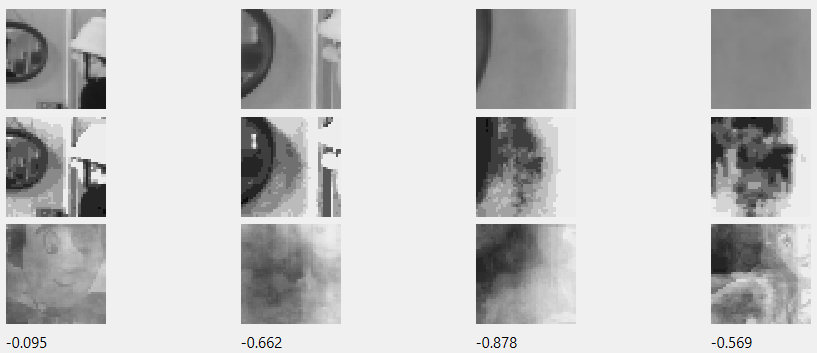
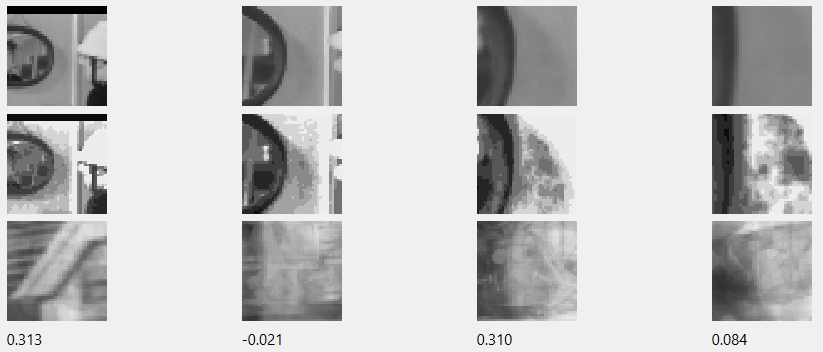
model re-run

diff --git a/README.md b/README.md
@@ -487,9 +487,9 @@ If we pause at 20 seconds of the first film as before, we see that the four repr
 
 ![actor001_006](images/actor001_006.png)
 
-The first three representations are close to their corresponding records. These three have high *likelihoods*. 
+The first three representations are close to their corresponding records. All have high *likelihoods*. 
 
-We can navigate around using the mouse or the arrow keys. The space bar will re-center the focus. We can easily navigate to areas of low *likelihoods*, for example if we hit the right arrow several times to (0.531,0.5) we have -
+We can navigate around using the mouse or the arrow keys. The space bar will re-center the focus. We can easily navigate to areas of low *likelihoods*, for example if we hit the up arrow several times to (0.5,0.425) we have -
 
 ![actor001_007](images/actor001_007.png)
 
@@ -501,17 +501,17 @@ This reminds us of the vastness of the *volume* of the *substrate* compared to t
 
 This table summarises the results from the `actor001` *models* -
 
-TODO models 2 and 8
+TODO model 8
 
 model|scales|frame position|events|fuds|fuds/sz/thrshld|median diagonal|max diagonal|lagging fuds
 ---|---|---|---|---|---|---|---|---
-model001|1.0, 0.5, 0.25, 0.125|centred|720,000|2781|0.7725|31.7208|41.5523|7
+model001|1.0, 0.5, 0.25, 0.125|centred|720,000|2817|0.7825|31.8063|41.4185|66
 model005|1.0|1 centred|180,000|684|0.761591|33.4245|41.2544|0
 model006|0.5|1 centred|180,000|697|0.775099|31.6855|41.1768|0
 model007|0.25|1 centred|180,000|698|0.776233|31.458|40.8568|0
-model003|0.5|1 centred, 4 offset|720,000|2726|0.757222|31.4333|42.0312|1114
-model004|0.5|1 centred, 4 offset, randomised|720,000|2899|0.805278|25.5097|40.5724|485
-model002|0.25|1 centred, 4 offset|720,000|2799|0.7775|31.2526|41.5411|489
+model003|0.5|1 centred, 4 offset|720,000|2762|0.767222|31.5374|41.7331|602
+model004|0.5|1 centred, 4 offset, randomised|720,000|2951|0.819722|25.9151|41.3706|413
+model002|0.25|1 centred, 4 offset|720,000|2807|0.779722|30.9492|41.6394|630
 model008|0.25|1 centred, 4 offset, randomised|720,000|2705|0.751389|25.904|39.3218|387
 
 *Model* 1 is the only *model* with varying scales. In order to determine which scale had the most *alignments* we ran the first three scales separately, in *models* 5, 6 and 7. We can see that no scale has any noticeable advantage, with the *fuds* per *size* per threshold fairly constant amongst all of them at around 0.77. The median and maximum *diagonals* is similar too. 
@@ -535,7 +535,7 @@ cd /d C:\caiks\WBOT02_ws
 "C:\caiks\build-WBOT02-Desktop_Qt_6_2_4_MSVC2019_64bit-Release\WBOT02.exe" actor001 model005.json > model005.log
 
 ```
-The remaining *models* have five frames, each with the same scale - a central frame and four frames at the points of the compass. In *models* 3 and 4 we compare the effect of fixed centres to randomised ones for half scale frames. In *models* 2 and 8 we do the same for quarter scale frames. We can see that for half scale  randomisation appears to increase the *model* a little (0.81 versus 0.76), but for quarter scale randomisation appears to decrease the *model* a little (0.75 versus 0.78). There does not seem to be any very large quantitative differences.
+The remaining *models* have five frames, each with the same scale - a central frame and four frames at the points of the compass. In *models* 3 and 4 we compare the effect of fixed centres to randomised ones for half scale frames. In *models* 2 and 8 we do the same for quarter scale frames. We can see that for half scale the randomisation appears to increase the *model* a little (0.82 versus 0.77), but for quarter scale the randomisation appears to decrease the *model* a little (0.75 TODO versus 0.78). There does not seem to be any very large quantitative differences.
 
 Let us consider if there are qualitative differences between fixed and randomised for the half scale by comparing *models* 3 and 4. This is the configuration of `model003.json` -
 ```
@@ -574,13 +574,13 @@ If we display *model* 3 and *model* 1 side by side, we can easily see this -
 
 ![actor001_008](images/actor001_008.png) ![actor001_010](images/actor001_010.png) 
 
-The *likelihoods* are similar (0.752 versus 0.591). The *slice* representations are similar too. 
+The *likelihoods* are both high as we would expect. 
 
-If we move rightwards by the same short distance as before to (0.531,0.5) we obtain the following -
+If we move upwards by the same short distance as before to (0.5,0.425) we obtain the following -
 
 ![actor001_009](images/actor001_009.png) ![actor001_011](images/actor001_011.png) 
 
-Here *model* 3 has a high *likelihood* at 0.739 in contrast to *model* 1, which was far off the *diagonal* at only -0.662. The *slice* representations, however, are both quite different from the current record. In the case of *model* 3 this is because we have moved away from the fixed point and the most similar *slice* happens to resemble only only a small part of the image, probably because it is not very far down the *decompostion* path. *Model* 1, on the other hand, is a small *slice* and so the representation are is likely to deviate a long way from the record in any case.
+Here both *model* 3 and *model* 1 have low *likelihoods*. They are both far *off-diagonal* because they have seen few similar *events* at their fixed points.
 
 The configuration of *model* 4 is very similar to *model* 3, but additionally has the random parameters; `model004.json` -
 ```
@@ -617,34 +617,37 @@ Let us compare all three *models* at (0.5,0.5) -
 
 ![actor001_012](images/actor001_012.png) ![actor001_008](images/actor001_008.png) ![actor001_010](images/actor001_010.png) 
 
-The randomised case has a very low *likelihood* at -0.697 when compared to the fixed cases. This is as we would expect since there will be few, if any, identical *events* in the randomised case. 
+The randomised case has a very low *likelihood* when compared to the fixed cases. This is as we would expect since there will be few, if any, identical *events* in the randomised case where the centre is not a fixed point.
 
-Compare the randomised case to the fixed for the translated centre (0.531,0.5) -
+Compare the randomised case to the fixed for the translated centre (0.5,0.425) -
 
 ![actor001_013](images/actor001_013.png) ![actor001_009](images/actor001_009.png) ![actor001_011](images/actor001_011.png) 
 
-The randomised *likelihood* is higher at -0.359, but it is still very low. This is also as we would expect - there will generally be more *events* from that location or for similar locations in the randomised case. 
+In this case it so happens that the randomised *likelihood* is very high. The representation is blurry, but the light and dark areas resemble the record fairly closely. Note that it is just chance that this happens to be a hotspot in the randomised *model* - if we navigate elsewhere, there are plenty of low  *likelihood* places nearby.
 
 Neither the randomised nor the fixed methods perform very well where the frame is rarely seen. Let us see if frequently seen objects, such as Sam's face, improve things.
 
-If we pause the first episode at 4 minutes 20 seconds, long after the opening sequence, *model* 4 has a high *likelihood*, but a blurry representation, at (0.5,0.5) -
+If we pause the first episode at 4 minutes 20 seconds, long after the opening sequence, *model* 4 does not have a hotspot at (0.5,0.5) -
 
 ![actor001_014](images/actor001_014.png) 
 
-If we navigate around Sam's face with *model* 4 we find that all of the representations consist of blurry areas of light and dark when they have high *likelihoods*. None of the representations look very much like his face. This suggests that randomised *modelling* would need much longer runs to attain, say, two darker areas for the pupils of the eyes. A limited active *history* is likely to preclude ever obtaining even a basic *model* of faces.
+If we navigate around Sam's face with *model* 4 we find that all of the representations consist of blurry areas of light and dark when they have high *likelihoods*. For example,
+
+![actor001_015](images/actor001_015.png) 
+
+None of the representations look very much like his face. This suggests that randomised *modelling* would need much longer runs to attain, say, two darker areas for the pupils of the eyes. A limited active *history* is likely to preclude ever obtaining even a basic *model* of faces.
 
 If we repeat for *model* 3 we have a high *likelihood* hotspot at (0.5,0.5) -
 
 ![actor001_016](images/actor001_016.png) 
 
-The representation is possibly less blurry than for *model* 4, but it seems to be classified along with other images containing the buttons on Sam's coat, rather than on Sam's face.
+The representation is possibly less blurry than for the *model* 4 hotspot, but still does not look like a face.
 
 We can perhaps tentatively conclude that frequently seen frames are more likely to have high *likelihood* hotspots nearby, in varying degrees of *decomposition*, than frames containing the intervals between objects (such as the edge of the mirror above), or with jumbles of rarely seen objects. To find out, `actor002` will actively scan for hotspots and will show the siblings and ancestor *slice* representations. 
 
-None of the *models* with only one frame (5, 6 and 7) have induce lags. There is a small lag in *model* 1 with four frames, and large lags in *models* 3, 4, 2 and 8 with five frames. The *models* that lagged the most may have slightly better *models* because of the larger *slices*. The lagging is mainly a problem, however, because the *model* is out of date, and so it will be important to avoid it when we come to *likelihood* search in `actor002`.
+None of the *models* with only one frame (5, 6 and 7) have induce lags. There is a small lag in *model* 1 with four frames, and large lags in *models* 3, 4, 2 and 8 with five frames. The *models* that lagged the most may have slightly better *models* because of the larger *slices*. The lagging is mainly a problem, however, because the *model* is out of date, and so it will be important to avoid lags when we come to *likelihood* search in `actor002`.
 
 TODO -
-
 
 The fixed models will have many identical events in a slice from the credits. So some slices are identical to the event. Really need to see the ancestors and siblings to see how generic the model is - actor 2. Of course we don't want it to be too generic - the model would have to be far too large, so we need hotspots rather like the fixed points but smart.
 
